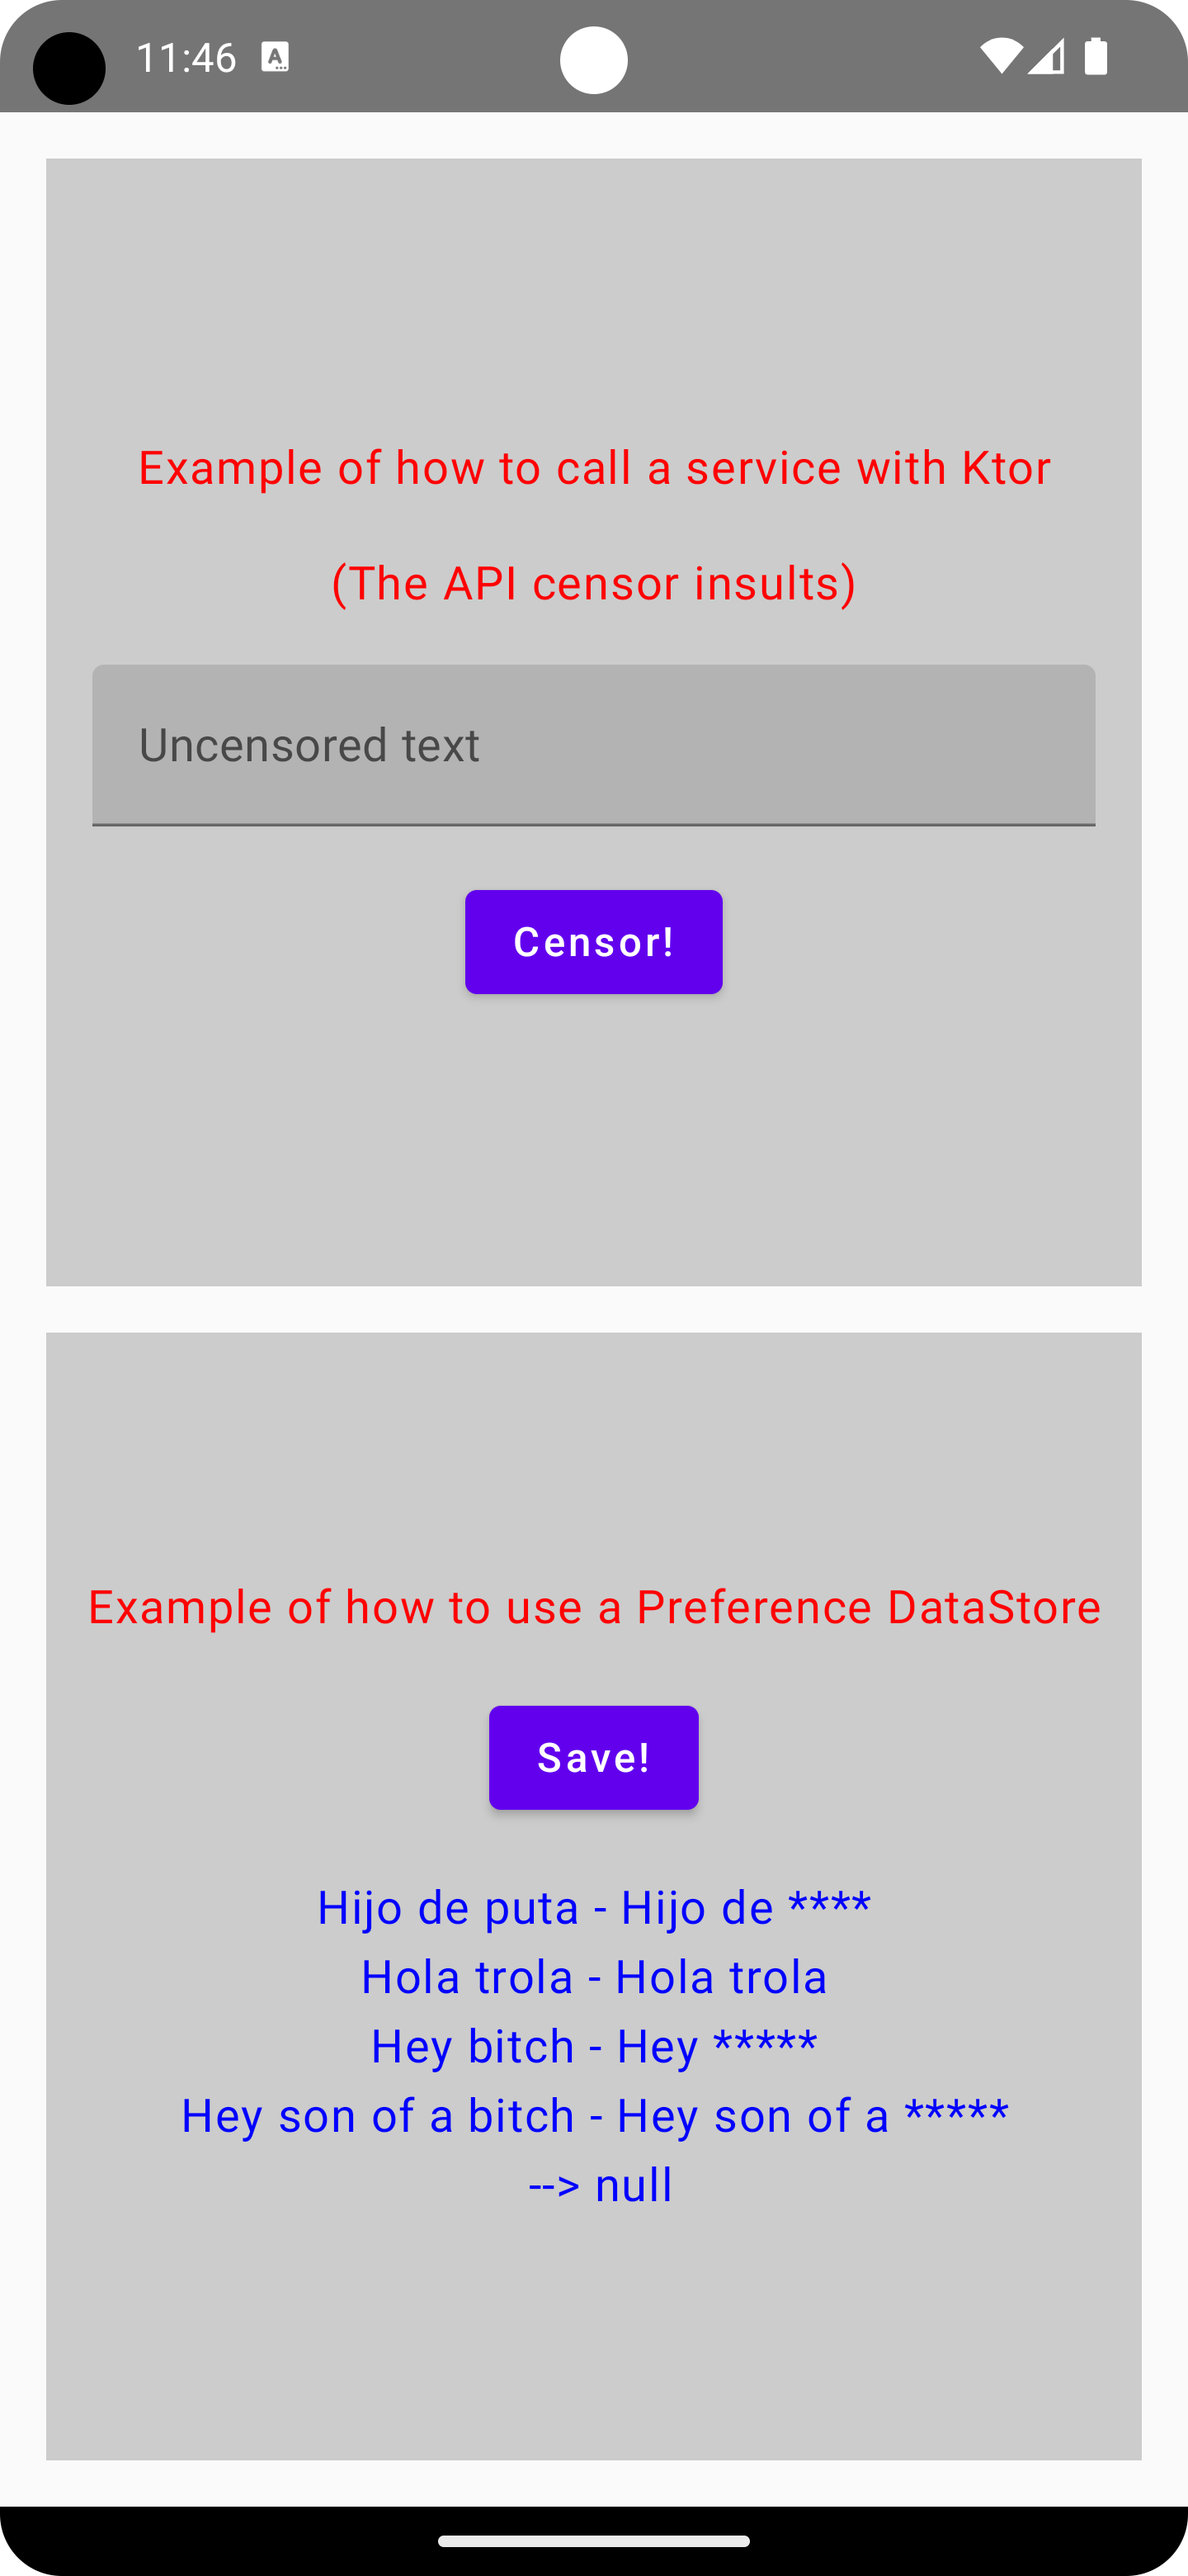
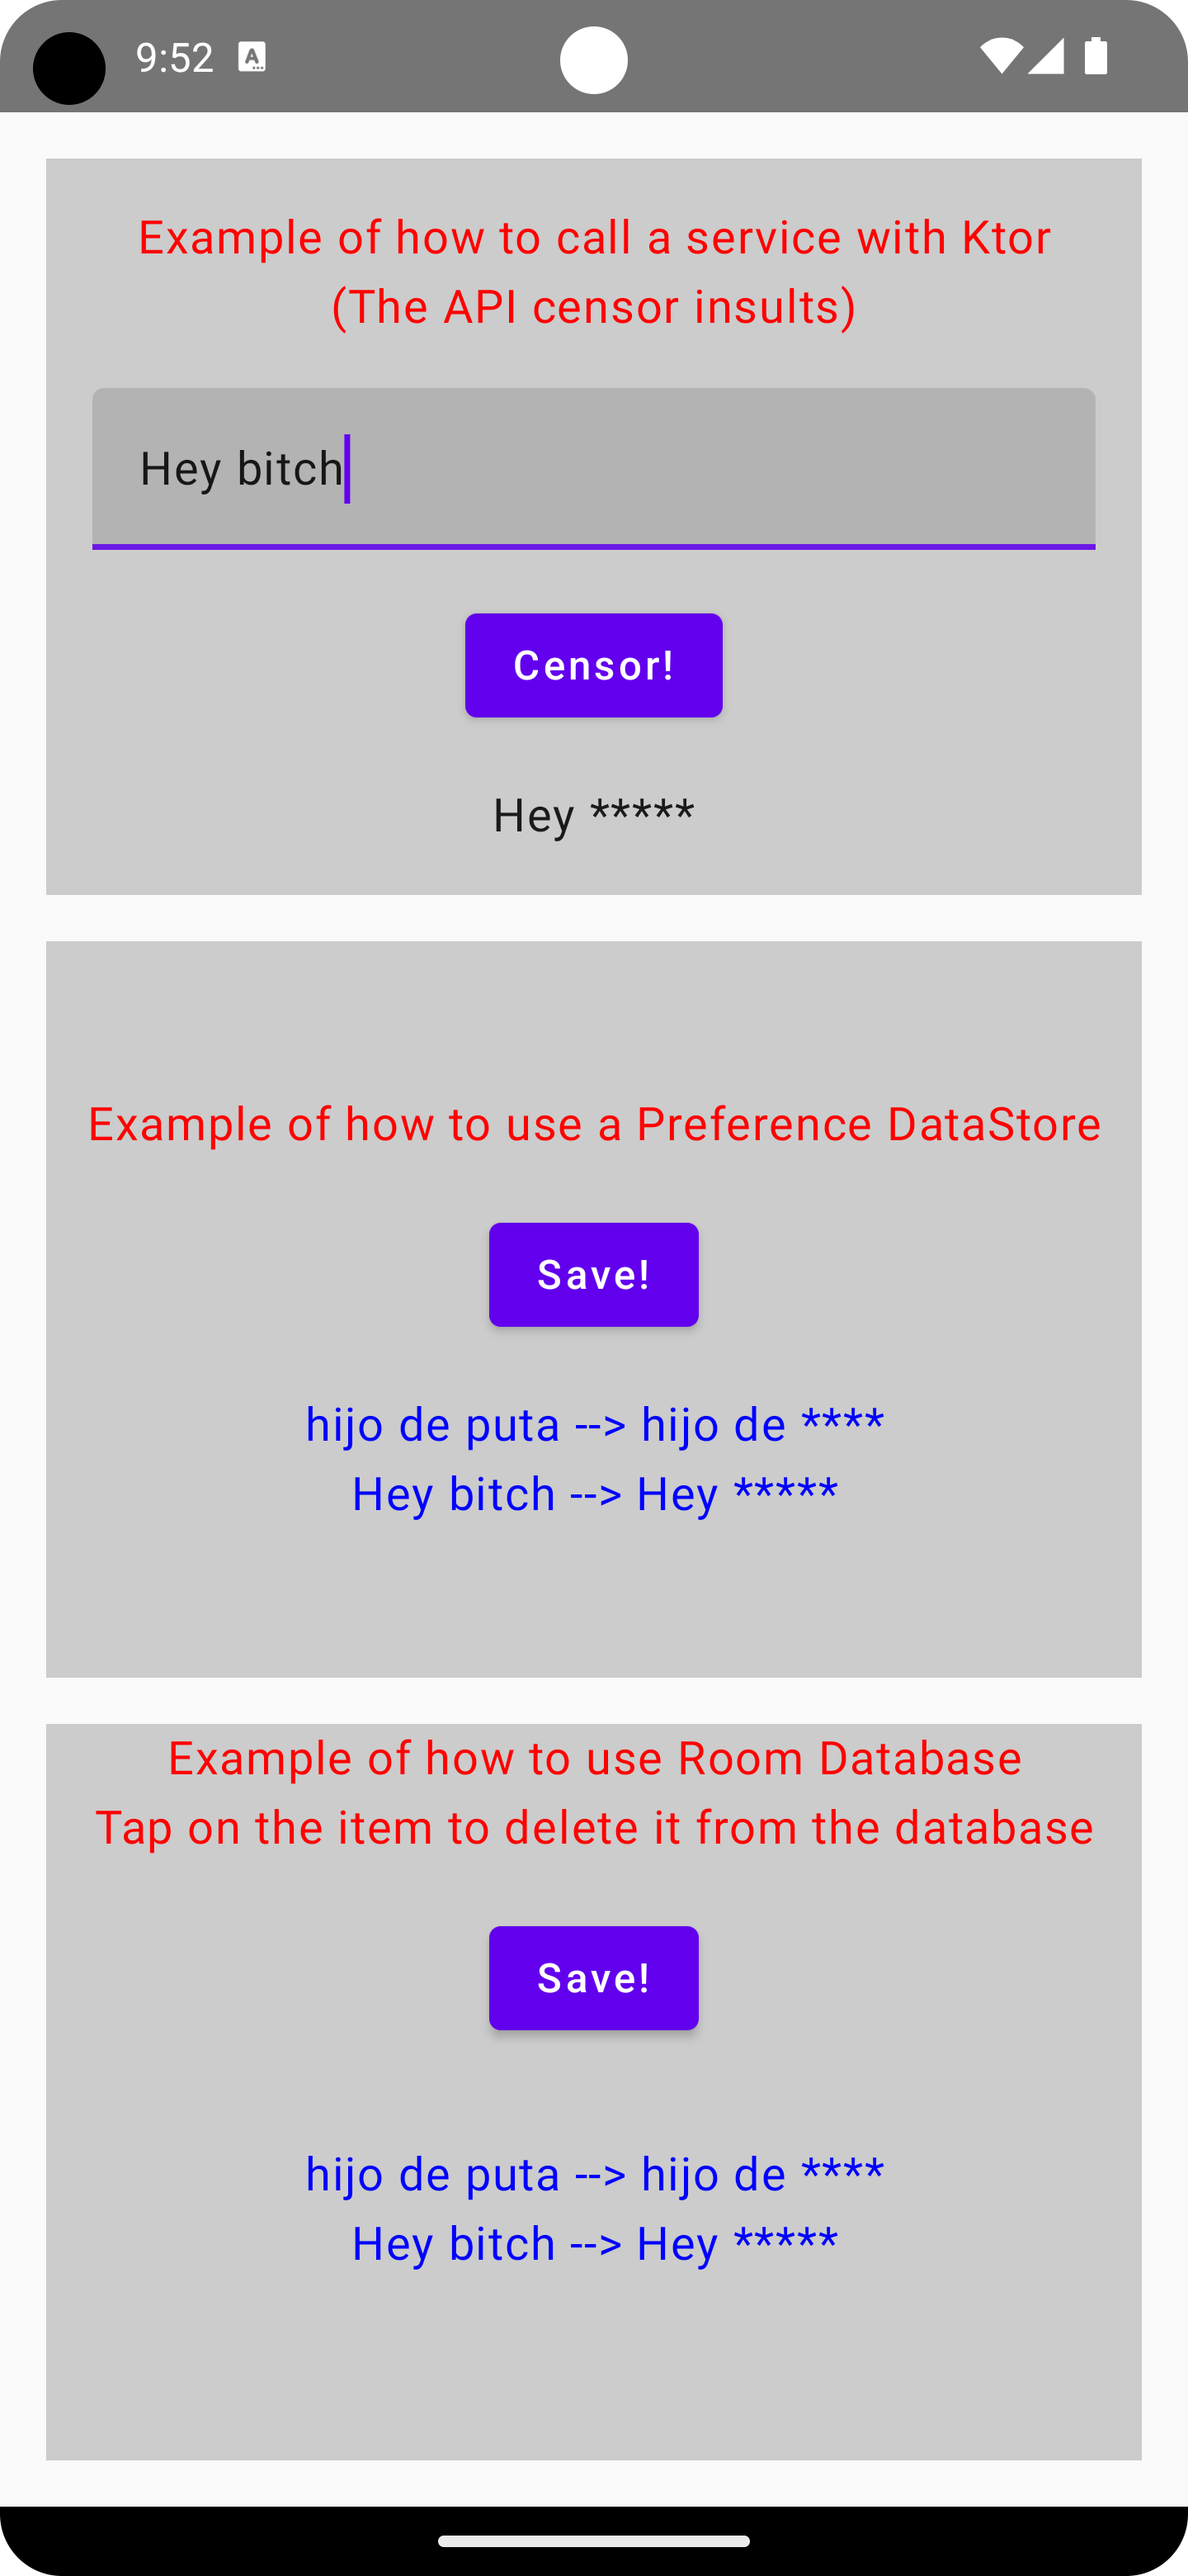
Room DB added

diff --git a/composeApp/src/commonMain/kotlin/com/murosar/kmp/dataconsuming/App.kt b/composeApp/src/commonMain/kotlin/com/murosar/kmp/dataconsuming/App.kt
@@ -1,12 +1,18 @@
 package com.murosar.kmp.dataconsuming
 
 import androidx.compose.foundation.background
+import androidx.compose.foundation.clickable
 import androidx.compose.foundation.layout.Arrangement
 import androidx.compose.foundation.layout.Column
+import androidx.compose.foundation.layout.PaddingValues
 import androidx.compose.foundation.layout.fillMaxSize
 import androidx.compose.foundation.layout.fillMaxWidth
 import androidx.compose.foundation.layout.padding
 import androidx.compose.foundation.layout.size
+import androidx.compose.foundation.lazy.LazyColumn
+import androidx.compose.foundation.lazy.items
+import androidx.compose.foundation.rememberScrollState
+import androidx.compose.foundation.verticalScroll
 import androidx.compose.material.Button
 import androidx.compose.material.CircularProgressIndicator
 import androidx.compose.material.MaterialTheme
@@ -28,6 +34,8 @@ import androidx.datastore.core.DataStore
 import androidx.datastore.preferences.core.Preferences
 import androidx.datastore.preferences.core.edit
 import androidx.datastore.preferences.core.stringPreferencesKey
+import com.murosar.kmp.dataconsuming.database.TextTransformationDao
+import com.murosar.kmp.dataconsuming.database.TextTransformationEntity
 import com.murosar.kmp.dataconsuming.networking.InsultCensorClient
 import com.murosar.kmp.dataconsuming.util.NetworkError
 import com.murosar.kmp.dataconsuming.util.onError
@@ -41,9 +49,12 @@ import org.jetbrains.compose.ui.tooling.preview.Preview
 @Preview
 fun App(
     client: InsultCensorClient,
-    prefs: DataStore<Preferences>
+    prefs: DataStore<Preferences>,
+    textTransformationDao: TextTransformationDao
 ) {
-    val transformations by prefs
+    val databaseTransformations by textTransformationDao.getAllTransformations().collectAsState(initial = emptyList())
+
+    val dataStoreTransformations by prefs
         .data
         .map {
             it.asMap().values.toString()
@@ -77,6 +88,7 @@ fun App(
         ) {
             Column(
                 modifier = Modifier
+                    .verticalScroll(rememberScrollState())
                     .fillMaxSize()
                     .weight(1f)
                     .background(Color.LightGray),
@@ -84,12 +96,7 @@ fun App(
                 verticalArrangement = Arrangement.spacedBy(16.dp, Alignment.CenterVertically)
             ) {
                 Text(
-                    text = "Example of how to call a service with Ktor",
-                    textAlign = TextAlign.Center,
-                    color = Color.Red
-                )
-                Text(
-                    text = "(The API censor insults)",
+                    text = "Example of how to call a service with Ktor\n(The API censor insults)",
                     textAlign = TextAlign.Center,
                     color = Color.Red
                 )
@@ -163,10 +170,57 @@ fun App(
                     Text("Save!")
                 }
                 Text(
-                    text = transformations,
+                    modifier = Modifier.verticalScroll(rememberScrollState()),
+                    text = dataStoreTransformations,
                     textAlign = TextAlign.Center,
                     color = Color.Blue
                 )
+            }
+            Column(
+                modifier = Modifier
+                    .fillMaxSize()
+                    .weight(1f)
+                    .background(Color.LightGray),
+                horizontalAlignment = Alignment.CenterHorizontally,
+                verticalArrangement = Arrangement.spacedBy(16.dp, Alignment.CenterVertically)
+            ) {
+                Text(
+                    text = "Example of how to use Room Database\nTap on the item to delete it from the database",
+                    textAlign = TextAlign.Center,
+                    color = Color.Red
+                )
+                Button(onClick = {
+                    scope.launch {
+                        textTransformationDao.upsert(
+                            TextTransformationEntity(
+                                uncensoredText = uncensoredText,
+                                censoredText = censoredText.orEmpty()
+                            )
+                        )
+                    }
+                }) {
+                    Text("Save!")
+                }
+                LazyColumn(
+                    modifier = Modifier
+                        .fillMaxSize(),
+                    contentPadding = PaddingValues(16.dp),
+                ) {
+                    items(databaseTransformations) { transformation ->
+                        Text(
+                            text = transformation.uncensoredText + " --> " + transformation.censoredText,
+                            modifier = Modifier
+                                .fillMaxWidth()
+                                .clickable {
+                                    scope.launch {
+                                        textTransformationDao.delete(transformation)
+                                    }
+                                },
+                            textAlign = TextAlign.Center,
+                            color = Color.Blue
+                        )
+                    }
+                }
             }
         }
     }

diff --git a/composeApp/src/androidMain/kotlin/com/murosar/kmp/dataconsuming/MainActivity.kt b/composeApp/src/androidMain/kotlin/com/murosar/kmp/dataconsuming/MainActivity.kt
@@ -4,6 +4,8 @@ import android.os.Bundle
 import androidx.activity.ComponentActivity
 import androidx.activity.compose.setContent
 import androidx.compose.runtime.remember
+import com.murosar.kmp.dataconsuming.database.getTextTransformationDatabase
+import com.murosar.kmp.dataconsuming.datastore.createDataStore
 import com.murosar.kmp.dataconsuming.networking.InsultCensorClient
 import com.murosar.kmp.dataconsuming.networking.createHttpClient
 import io.ktor.client.engine.okhttp.OkHttp
@@ -12,6 +14,8 @@ class MainActivity : ComponentActivity() {
     override fun onCreate(savedInstanceState: Bundle?) {
         super.onCreate(savedInstanceState)
 
+        val textTransformationDao = getTextTransformationDatabase(applicationContext).textTransformationDao()
+
         setContent {
             App(
                 client = remember {
@@ -19,7 +23,8 @@ class MainActivity : ComponentActivity() {
                 },
                 prefs = remember {
                     createDataStore(applicationContext)
-                }
+                },
+                textTransformationDao = textTransformationDao
             )
         }
     }

diff --git a/composeApp/src/desktopMain/kotlin/com/murosar/kmp/dataconsuming/main.kt b/composeApp/src/desktopMain/kotlin/com/murosar/kmp/dataconsuming/main.kt
@@ -3,12 +3,17 @@ package com.murosar.kmp.dataconsuming
 import androidx.compose.runtime.remember
 import androidx.compose.ui.window.Window
 import androidx.compose.ui.window.application
+import com.murosar.kmp.dataconsuming.database.getTextTransformationDatabase
+import com.murosar.kmp.dataconsuming.datastore.DATA_STORE_FILE_NAME
+import com.murosar.kmp.dataconsuming.datastore.createDataStore
 import com.murosar.kmp.dataconsuming.networking.InsultCensorClient
 import com.murosar.kmp.dataconsuming.networking.createHttpClient
 import io.ktor.client.engine.okhttp.OkHttp
 
 fun main() = application {
     val prefs = createDataStore { DATA_STORE_FILE_NAME }
+
+    val textTransformationDao = getTextTransformationDatabase().textTransformationDao()
 
     Window(
         onCloseRequest = ::exitApplication,
@@ -18,7 +23,8 @@ fun main() = application {
             client = remember {
                 InsultCensorClient(createHttpClient(OkHttp.create()))
             },
-            prefs = prefs
+            prefs = prefs,
+            textTransformationDao = textTransformationDao
         )
     }
 }

diff --git a/composeApp/src/iosMain/kotlin/com/murosar/kmp/dataconsuming/MainViewController.kt b/composeApp/src/iosMain/kotlin/com/murosar/kmp/dataconsuming/MainViewController.kt
@@ -2,17 +2,23 @@ package com.murosar.kmp.dataconsuming
 
 import androidx.compose.runtime.remember
 import androidx.compose.ui.window.ComposeUIViewController
+import com.murosar.kmp.dataconsuming.database.getTextTransformationDatabase
+import com.murosar.kmp.dataconsuming.datastore.createDataStore
 import com.murosar.kmp.dataconsuming.networking.InsultCensorClient
 import com.murosar.kmp.dataconsuming.networking.createHttpClient
 import io.ktor.client.engine.darwin.Darwin
 
 fun MainViewController() = ComposeUIViewController {
+    val textTransformationDao = remember {
+        getTextTransformationDatabase().textTransformationDao()
+    }
     App(
         client = remember {
             InsultCensorClient(createHttpClient(Darwin.create()))
         },
         prefs = remember {
             createDataStore()
-        }
+        },
+        textTransformationDao = textTransformationDao
     )
 }

diff --git a/composeApp/src/iosMain/kotlin/com/murosar/kmp/dataconsuming/database/getTextTransformationDatabase.kt b/composeApp/src/iosMain/kotlin/com/murosar/kmp/dataconsuming/database/getTextTransformationDatabase.kt
@@ -1,0 +1,19 @@
+package com.murosar.kmp.dataconsuming.database
+
+import androidx.room.Room
+import androidx.sqlite.driver.bundled.BundledSQLiteDriver
+import kotlinx.coroutines.Dispatchers
+import kotlinx.coroutines.IO
+import platform.Foundation.NSHomeDirectory
+
+fun getTextTransformationDatabase(): TextTransformationDatabase {
+    val dbFile = NSHomeDirectory() + "/$DATABASE_NAME"
+    return Room.databaseBuilder<TextTransformationDatabase>(
+        name = dbFile,
+        //.instantiateImpl() will be generated by KSP when compile first time
+//        factory = { TextTransformationDatabase::class.instantiateImpl() }
+    )
+        .setDriver(BundledSQLiteDriver())
+        .setQueryCoroutineContext(Dispatchers.IO)
+        .build()
+}

diff --git a/composeApp/src/androidMain/kotlin/com/murosar/kmp/dataconsuming/database/getTextTransformationDatabase.kt b/composeApp/src/androidMain/kotlin/com/murosar/kmp/dataconsuming/database/getTextTransformationDatabase.kt
@@ -1,0 +1,17 @@
+package com.murosar.kmp.dataconsuming.database
+
+import android.content.Context
+import androidx.room.Room
+import androidx.sqlite.driver.bundled.BundledSQLiteDriver
+import kotlinx.coroutines.Dispatchers
+
+fun getTextTransformationDatabase(context: Context): TextTransformationDatabase {
+    val dbFile = context.getDatabasePath(DATABASE_NAME)
+    return Room.databaseBuilder<TextTransformationDatabase>(
+        context = context.applicationContext,
+        name = dbFile.absolutePath
+    )
+        .setDriver(BundledSQLiteDriver())
+        .setQueryCoroutineContext(Dispatchers.IO)
+        .build()
+}

diff --git a/composeApp/src/commonMain/kotlin/com/murosar/kmp/dataconsuming/database/TextTransformationDatabase.kt b/composeApp/src/commonMain/kotlin/com/murosar/kmp/dataconsuming/database/TextTransformationDatabase.kt
@@ -1,0 +1,20 @@
+package com.murosar.kmp.dataconsuming.database
+
+import androidx.room.ConstructedBy
+import androidx.room.Database
+import androidx.room.RoomDatabase
+import androidx.room.RoomDatabaseConstructor
+
+const val DATABASE_NAME = "TextTransformationDatabase.db"
+
+@Database(
+    entities = [TextTransformationEntity::class],
+    version = 1
+)
+@ConstructedBy(MyDatabaseCtor::class)
+abstract class TextTransformationDatabase : RoomDatabase() {
+
+    abstract fun textTransformationDao(): TextTransformationDao
+}
+
+expect object MyDatabaseCtor : RoomDatabaseConstructor<TextTransformationDatabase>

diff --git a/composeApp/src/desktopMain/kotlin/com/murosar/kmp/dataconsuming/database/getTextTransformationDatabase.kt b/composeApp/src/desktopMain/kotlin/com/murosar/kmp/dataconsuming/database/getTextTransformationDatabase.kt
@@ -1,0 +1,16 @@
+package com.murosar.kmp.dataconsuming.database
+
+import androidx.room.Room
+import androidx.sqlite.driver.bundled.BundledSQLiteDriver
+import kotlinx.coroutines.Dispatchers
+import java.io.File
+
+fun getTextTransformationDatabase(): TextTransformationDatabase {
+    val dbFile = File(System.getProperty("java.io.tmpdir"), DATABASE_NAME)
+    return Room.databaseBuilder<TextTransformationDatabase>(
+        name = dbFile.absolutePath,
+    )
+        .setDriver(BundledSQLiteDriver())
+        .setQueryCoroutineContext(Dispatchers.IO)
+        .build()
+}

diff --git a/composeApp/src/commonMain/kotlin/com/murosar/kmp/dataconsuming/database/TextTransformationDao.kt b/composeApp/src/commonMain/kotlin/com/murosar/kmp/dataconsuming/database/TextTransformationDao.kt
@@ -1,0 +1,21 @@
+package com.murosar.kmp.dataconsuming.database
+
+import androidx.room.Dao
+import androidx.room.Delete
+import androidx.room.Query
+import androidx.room.Upsert
+import kotlinx.coroutines.flow.Flow
+
+@Dao
+interface TextTransformationDao {
+
+    @Upsert
+    suspend fun upsert(textTransformationEntity: TextTransformationEntity)
+
+    @Delete
+    suspend fun delete(textTransformationEntity: TextTransformationEntity)
+
+    @Query("SELECT * FROM TextTransformationEntity")
+    fun getAllTransformations(): Flow<List<TextTransformationEntity>>
+
+}

diff --git a/composeApp/src/commonMain/kotlin/com/murosar/kmp/dataconsuming/database/TextTransformationEntity.kt b/composeApp/src/commonMain/kotlin/com/murosar/kmp/dataconsuming/database/TextTransformationEntity.kt
@@ -1,0 +1,11 @@
+package com.murosar.kmp.dataconsuming.database
+
+import androidx.room.Entity
+import androidx.room.PrimaryKey
+
+@Entity
+data class TextTransformationEntity(
+    @PrimaryKey(autoGenerate = true) val id: Int = 0,
+    val uncensoredText: String,
+    val censoredText: String,
+)

diff --git a/composeApp/src/iosMain/kotlin/com/murosar/kmp/dataconsuming/datastore/createDataStore.ios.kt b/composeApp/src/iosMain/kotlin/com/murosar/kmp/dataconsuming/datastore/createDataStore.ios.kt
@@ -1,6 +1,6 @@
 @file:OptIn(ExperimentalForeignApi::class)
 
-package com.murosar.kmp.dataconsuming
+package com.murosar.kmp.dataconsuming.datastore
 
 import androidx.datastore.core.DataStore
 import androidx.datastore.preferences.core.Preferences

diff --git a/composeApp/src/commonMain/kotlin/com/murosar/kmp/dataconsuming/datastore/createDataStore.kt b/composeApp/src/commonMain/kotlin/com/murosar/kmp/dataconsuming/datastore/createDataStore.kt
@@ -1,4 +1,4 @@
-package com.murosar.kmp.dataconsuming
+package com.murosar.kmp.dataconsuming.datastore
 
 import androidx.datastore.core.DataStore
 import androidx.datastore.preferences.core.PreferenceDataStoreFactory
